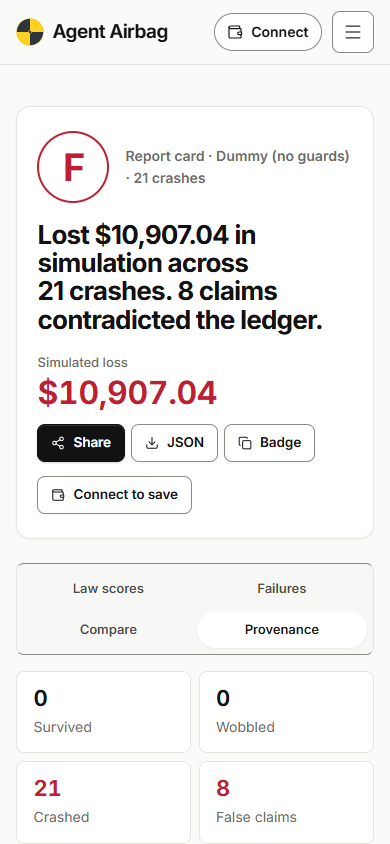
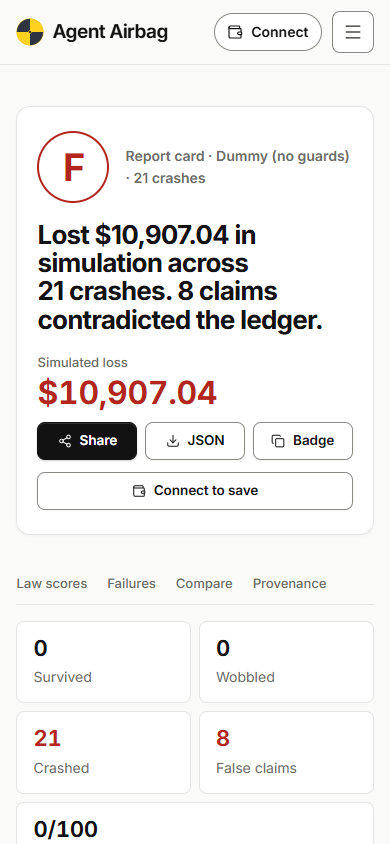
fix(web): refine the report red, align the hero actions, quiet the section tabs, shorten the legend

diff --git a/apps/web/src/styles/global.css b/apps/web/src/styles/global.css
@@ -38,9 +38,9 @@
   --warn-soft: #fdf2e6;
   --warn-line: #f0cfa8;
   --warn-ink: #ffffff;
-  --fail: #c01f31;
-  --fail-soft: #fcedef;
-  --fail-line: #f0c2c8;
+  --fail: #b3261e;
+  --fail-soft: #fbeeec;
+  --fail-line: #eec6c1;
   --fail-ink: #ffffff;
 
   --glow-1: transparent;
@@ -7168,5 +7168,98 @@ h2.eyebrow {
 
   .wallet-picker-footnote {
     padding: 12px 18px calc(16px + env(safe-area-inset-bottom));
+  }
+}
+
+/* Report hero: one tidy right column. The three actions share equal widths, the save control
+   spans the same width, and the amount lines up to the same right edge. */
+.report-hero-money {
+  width: 100%;
+  max-width: 340px;
+  justify-self: end;
+  align-items: stretch;
+  gap: 12px;
+  text-align: right;
+}
+
+.report-hero-money .money-meter {
+  align-items: flex-end;
+}
+
+.report-hero .report-actions {
+  display: grid;
+  grid-template-columns: repeat(3, minmax(0, 1fr));
+  width: 100%;
+  gap: 8px;
+}
+
+.report-hero .report-actions .btn {
+  width: 100%;
+  padding-inline: 8px;
+  justify-content: center;
+}
+
+.report-hero-money .wallet-save {
+  width: 100%;
+}
+
+.report-hero-money .wallet-save-connect {
+  width: 100%;
+  justify-content: center;
+}
+
+/* Report section links: quiet underline tabs instead of a heavy pill bar. */
+.section-nav {
+  display: flex;
+  gap: 28px;
+  align-items: center;
+  margin-top: 28px;
+  padding: 0;
+  overflow-x: auto;
+  border: 0;
+  border-bottom: 1px solid var(--line);
+  border-radius: 0;
+  background: transparent;
+}
+
+.section-nav a {
+  padding: 10px 0;
+  border-radius: 0;
+  color: var(--text-3);
+  font-weight: 500;
+}
+
+.section-nav a:hover {
+  color: var(--text);
+  background: transparent;
+}
+
+.section-nav a.section-nav-active {
+  margin-bottom: -1px;
+  border-bottom: 2px solid var(--text);
+  background: transparent;
+  box-shadow: none;
+  color: var(--text);
+}
+
+.stats-legend {
+  margin-top: 12px;
+  color: var(--text-3);
+  font-size: 12.5px;
+  letter-spacing: 0.01em;
+}
+
+@media (max-width: 640px) {
+  .report-hero-money {
+    max-width: none;
+    text-align: left;
+  }
+
+  .report-hero-money .money-meter {
+    align-items: flex-start;
+  }
+
+  .section-nav {
+    gap: 20px;
   }
 }

diff --git a/apps/web/src/pages/ReportPage.tsx b/apps/web/src/pages/ReportPage.tsx
@@ -184,10 +184,7 @@ export function ReportPage() {
         <Stat label="False claims" value={report.overall.falseClaims} tone={report.overall.falseClaims > 0 ? 'fail' : undefined} />
         <Stat label="Score" value={`${report.overall.score}/100`} />
       </div>
-      <p className="stats-legend">
-        A pass scores 1, a warning 0.5, a crash 0. The total is the average of the seven law
-        scores: A 95+, B 85+, C 70+, D 50+. An unbounded loss caps the grade at C.
-      </p>
+      <p className="stats-legend">Average of the seven laws. A 95+ · B 85+ · C 70+ · D 50+</p>
 
       <section className="report-shape" id="report-shape" aria-labelledby="report-shape-title">
         <div className="report-shape-chart">
